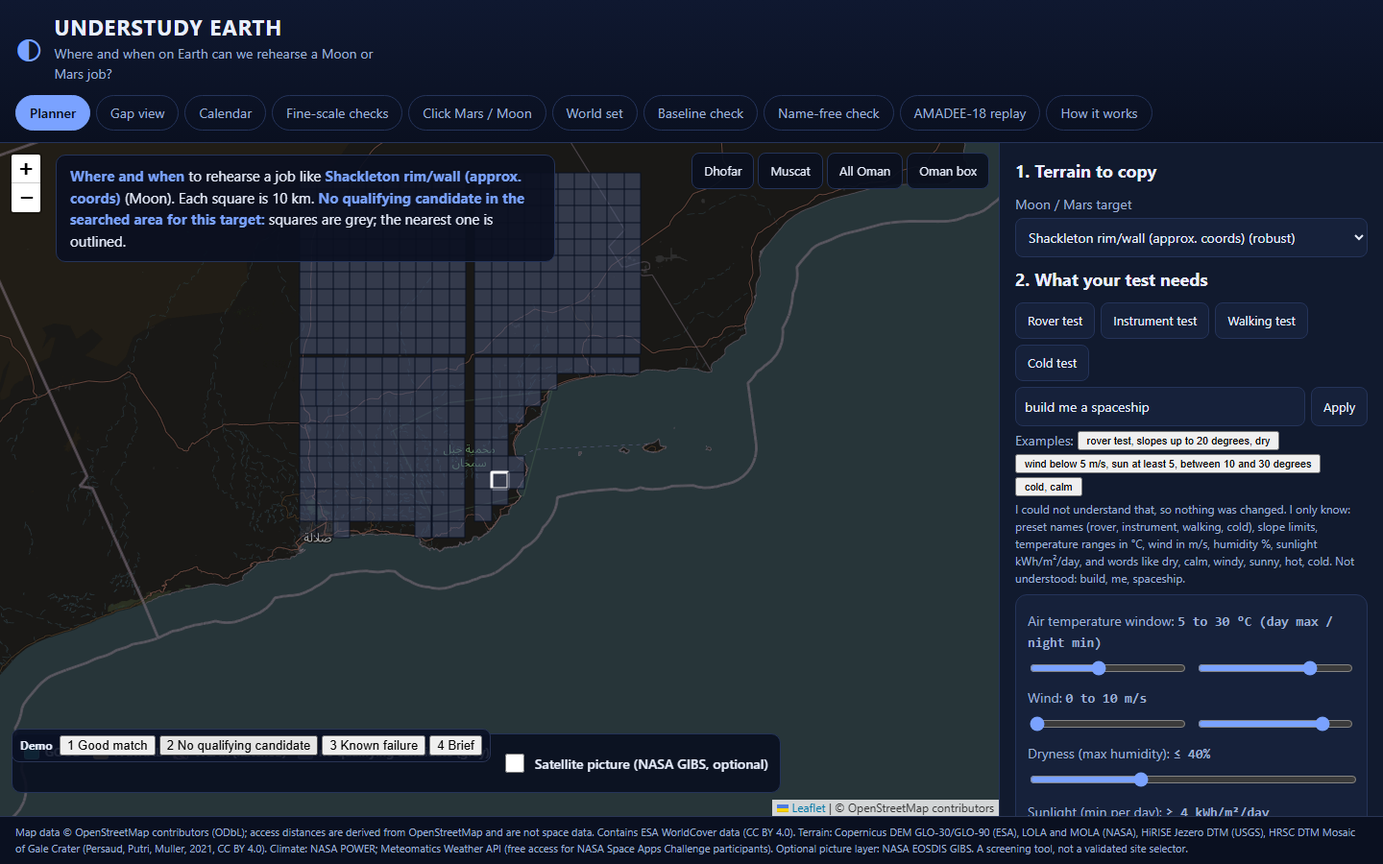
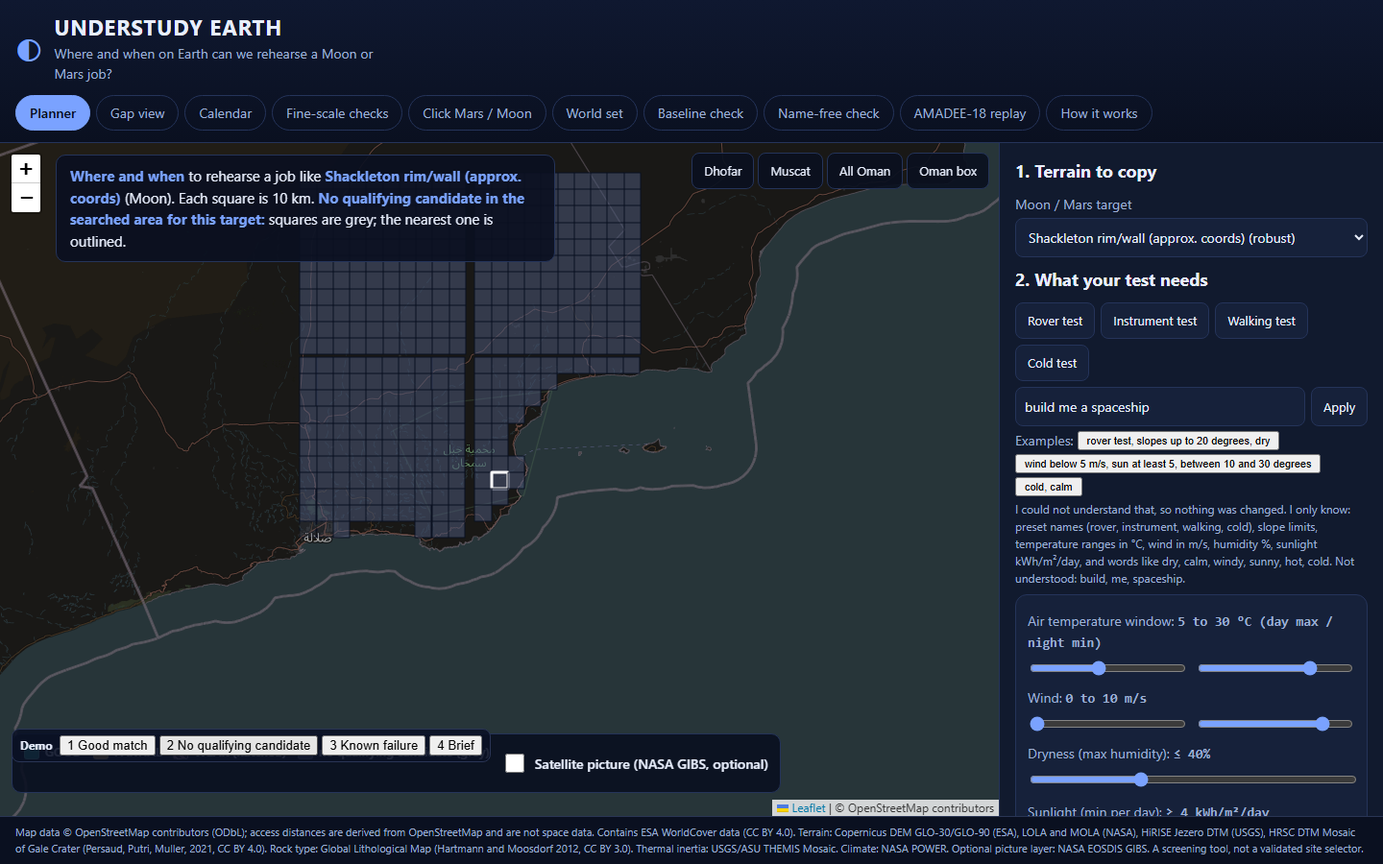
remove Meteomatics values, public-display consent was never clearly given

Changed region(s): [[0.1875, 0.9644, 0.9688, 0.9956]]

diff --git a/app/app.js b/app/app.js
@@ -14,8 +14,8 @@
   var FIELDS = ['tlo', 'thi', 'wmin', 'wmax', 'rhmax', 'smin', 'swmax', 'limit'];
 
   function load(f, opt) { return fetch('data/' + f).then(function (r) { if (!r.ok) { if (opt) return null; throw new Error(f + ' ' + r.status); } return r.json(); }).catch(function (e) { if (opt) return null; throw e; }); }
-  Promise.all([load('meta.json'), load('earth.json'), load('targets.json'), load('results.json'), load('second_check.json'), load('climate_power.json'), load('landcover.json', true), load('baseline.json', true), load('stability.json', true), load('notes.json', true), load('access.json', true), load('jezero.json', true), load('meteomatics.json', true), load('gale.json', true), load('lithology.json', true), load('thermal_mars.json', true)]).then(function (a) {
-    D.meta = a[0]; D.earth = a[1]; D.targets = a[2]; D.results = a[3]; D.second = a[4]; D.power = a[5]; D.lc = a[6]; D.base = a[7]; D.stab = a[8]; D.notes = a[9]; D.acc = a[10]; D.jez = a[11]; D.mm = a[12]; D.gale = a[13]; D.lith = a[14]; D.thermal = a[15];
+  Promise.all([load('meta.json'), load('earth.json'), load('targets.json'), load('results.json'), load('second_check.json'), load('climate_power.json'), load('landcover.json', true), load('baseline.json', true), load('stability.json', true), load('notes.json', true), load('access.json', true), load('jezero.json', true), load('gale.json', true), load('lithology.json', true), load('thermal_mars.json', true)]).then(function (a) {
+    D.meta = a[0]; D.earth = a[1]; D.targets = a[2]; D.results = a[3]; D.second = a[4]; D.power = a[5]; D.lc = a[6]; D.base = a[7]; D.stab = a[8]; D.notes = a[9]; D.acc = a[10]; D.jez = a[11]; D.gale = a[12]; D.lith = a[13]; D.thermal = a[14];
     SC = UEScore(D.meta); init();
   }).catch(function (e) {
     var el = $('loaderr'); el.hidden = false; el.textContent = 'Could not load the data files (' + e.message + '). Reload the page; if it persists the site files are missing.';
@@ -264,20 +264,6 @@
     return h + '</div>';
   }
 
-  function hav2(a, b, c, d) { var p = Math.PI / 180, x = Math.sin((c - a) * p / 2) * Math.sin((c - a) * p / 2) + Math.cos(a * p) * Math.cos(c * p) * Math.sin((d - b) * p / 2) * Math.sin((d - b) * p / 2); return 12742 * Math.asin(Math.sqrt(x)); }
-  function meteomaticsNear(e) {
-    if (!D.mm) return null;
-    var best = null, bd = 1e9;
-    Object.keys(D.mm.points).forEach(function (k) { var p = D.mm.points[k], dk = hav2(e.lat, e.lon, p.lat, p.lon); if (dk < bd) { bd = dk; best = { key: k, p: p }; } });
-    return (best && bd <= 30) ? { name: best.key, dist: bd, p: best.p } : null;
-  }
-  function meteomaticsLine(e, m) {
-    var near = meteomaticsNear(e); if (!near) return '';
-    var mx = near.p['t_max_2m_24h:C'], mn = near.p['t_min_2m_24h:C']; if (!mx || !mn) return '';
-    var c = climate(e), dmax = Math.round(mx[m] - c.tmax[m]), dmin = Math.round(mn[m] - c.tmin[m]);
-    return '<p class="sub"><b>Meteomatics, saved ' + D.mm.saved + '</b> (' + esc(D.mm.attribution) + '), nearest point "' + esc(near.name) + '" ' + near.dist.toFixed(0) + ' km away, ' + N.MON[m] + ': day max ' + mx[m].toFixed(1) + ' °C, night min ' + mn[m].toFixed(1) + ' °C (NASA POWER for the same month and point: ' + c.tmax[m].toFixed(1) + ' / ' + c.tmin[m].toFixed(1) + ' °C; the two sources disagree here by ' + dmax + ' / ' + dmin + ' °C — Meteomatics is a point value, POWER is a ~50 km regional cell).</p>';
-  }
-
   function monthNotes(e) {
     var c = climate(e), n = st.n, why = [];
     for (var m = 0; m < 12; m++) {
@@ -292,8 +278,7 @@
     }
     var sorted = e._fits.map(function (f, i) { return [f, i]; }).sort(function (a, b) { return b[0] - a[0]; }), close = '';
     if (sorted[0][0] >= 50 && sorted[1][0] >= sorted[0][0] - 5) close = '<p class="note"><b>Close months:</b> ' + sorted.filter(function (x) { return x[0] >= sorted[0][0] - 5; }).slice(0, 4).map(function (x) { return N.MON[x[1]] + ' (' + Math.round(x[0]) + ')'; }).join(', ') + ' are within 5 points, so the top month is not clearly ahead.</p>';
-    var bestm = e._best.length ? e._best[0] : e._fits.indexOf(Math.max.apply(null, e._fits));
-    return close + '<details class="why"><summary>Why months fail, and the data behind the strip</summary><p>' + (why.length ? esc(why.join('; ')) + '.' : 'Every month fits (75 or more).') + '</p><p class="sub">' + esc(POWER_NOTE) + '</p>' + meteomaticsLine(e, bestm) + '</details>';
+    return close + '<details class="why"><summary>Why months fail, and the data behind the strip</summary><p>' + (why.length ? esc(why.join('; ')) + '.' : 'Every month fits (75 or more).') + '</p><p class="sub">' + esc(POWER_NOTE) + '</p></details>';
   }
 
   function confidence(e) {
@@ -446,19 +431,10 @@
     var ff = N.monthFactors(avg, 1, needs), fk = Object.keys(ff).sort(function (a, b) { return ff[a] - ff[b]; })[0];
     var febWhy = ff[fk] >= 99.5 ? 'every factor is inside the assumed window.' : (fk === 'temp' ? 'day max ' + avg.tmax[1].toFixed(1) + ' °C against our assumed limit of ' + needs.thi + ' °C (night min ' + avg.tmin[1].toFixed(1) + ' °C). January has day max ' + avg.tmax[0].toFixed(1) + ' °C. The OeWF page quotes 16-27 °C for February, which looks like a mean temperature; NASA POWER daily max and min are more extreme than that, and we did not change our needs to force February.' : fk + ' is the weakest factor.');
     var verdict = best.indexOf(1) >= 0 ? 'The planner picks February among its best months.' : 'The planner does NOT pick February as a best month (best: ' + N.monthsText(best) + ', fit ' + Math.round(mx) + '). February scores ' + Math.round(feb) + ' (' + (N.needTier(feb) === 'match' ? 'a good month' : N.needTier(feb) === 'partial' ? 'a partial month' : 'a poor month') + ') under these assumed needs.';
-    var mmCheck = '';
-    if (D.mm && D.mm.points.amadee_marmul) {
-      var mp = D.mm.points.amadee_marmul;
-      if (mp['t_max_2m_24h:C'] && mp['t_min_2m_24h:C']) {
-        var mavg = { tmax: mp['t_max_2m_24h:C'], tmin: mp['t_min_2m_24h:C'], wind: mp['wind_speed_10m:ms'] || avg.wind, rh: mp['relative_humidity_2m:p'] || avg.rh, srad: avg.srad };
-        var mfits = N.allFits(mavg, needs), mbest = N.bestMonths(mfits), mfeb = mfits[1];
-        mmCheck = '<p class="sub"><b>Re-checked with Meteomatics (saved ' + D.mm.saved + ', nearest point, not a square average):</b> February day max ' + mavg.tmax[1].toFixed(1) + ' °C / night min ' + mavg.tmin[1].toFixed(1) + ' °C (NASA POWER square average above: ' + avg.tmax[1].toFixed(1) + ' / ' + avg.tmin[1].toFixed(1) + ' °C). Under Meteomatics, February scores ' + Math.round(mfeb) + (mbest.indexOf(1) >= 0 ? ' and IS among the planner\'s best months' : ', best months instead: ' + N.monthsText(mbest)) + '. We did not change the needs to force this; the two data sources simply disagree on how mild February is here, same as the February result was not forced before.</p>';
-      }
-    }
     $('replay').innerHTML = '<p class="sub"><b>Historical illustration with assumed needs.</b> The region is a 15 km circle around 18.19&deg;N 55.23&deg;E (Marmul area, Dhofar). The exact AMADEE-18 site is approximate and not confirmed. ' + mar.length + ' squares fall inside the circle.</p>' +
       '<p><b>Terrain:</b> median rank top ' + Math.max(1, Math.round(med * 100)) + '% of ' + D.earth.length + ' squares for target <b>' + esc(t.name) + '</b> (change the target on the Planner tab).</p>' +
       '<p><b>Assumed needs (ours, written down before the replay; see docs/VALIDATION.md):</b> day highs up to 35 °C, night lows at least 5 °C, sunlight at least 4 kWh/m²/day. The OeWF page gives no numeric limits; it only says February temperatures at the site typically range 16-27 °C with under 10 mm of rain (shown for reference, not used).</p>' + strip +
-      '<p class="best">Planner\'s best months: <b>' + esc(N.monthsText(best)) + '</b></p><p><b>Real mission:</b> the AMADEE-18 field phase ran in <b>February 2018</b> in the Dhofar region of Oman (Austrian Space Forum, oewf.org/en/amadee-18, read 2026-11-14).</p><p><b>Result:</b> ' + esc(verdict) + '</p>' + mmCheck +
+      '<p class="best">Planner\'s best months: <b>' + esc(N.monthsText(best)) + '</b></p><p><b>Real mission:</b> the AMADEE-18 field phase ran in <b>February 2018</b> in the Dhofar region of Oman (Austrian Space Forum, oewf.org/en/amadee-18, read 2026-11-14).</p><p><b>Result:</b> ' + esc(verdict) + '</p>' +
       '<p><b>Why February is not the top month:</b> ' + febWhy + '</p><div class="limits"><b>Honest reading.</b> The mission\'s real constraints (logistics, crew schedule, local hosts) are unknown to us, so a different best month does not mean the planner or the mission was wrong. Climate is a typical-year average, not February 2018 weather. Source: ' + esc(climate(mar[0]).src) + '.</div>' +
       '<div class="btns"><button id="rp-go">Show the circle on the map</button></div>';
     var go = $('rp-go'); if (go) go.onclick = function () { FIELDS.forEach(function (f) { if (needs[f] !== undefined) st.n[f] = needs[f]; }); syncInputs(); document.querySelector('.tab[data-view=map]').click(); map.setView([18.19, 55.23], 9); if (replayCircle) map.removeLayer(replayCircle); replayCircle = L.circle([18.19, 55.23], { radius: 15000, color: '#fff', weight: 2, dashArray: '6 6', fillOpacity: 0 }).bindTooltip('AMADEE-18 area (approximate)').addTo(map); sel = mar[0]; renderAll(); };

diff --git a/app/index.html b/app/index.html
@@ -110,11 +110,11 @@
       <h3>What our data cannot see</h3>
       <ul class="cant"><li>Rocks, steps and slopes smaller than 500 m</li><li>Earth heights are a surface model (trees, buildings); Moon and Mars are bare ground</li><li>Climate is a typical-year average on a coarse grid (NASA POWER temperature, wind and humidity cells about 50 km, solar about 110 km), not local weather</li><li>Moon: south pole only. Oman: only the tiles we hold.</li></ul>
       <h3>Checks</h3><div id="second"></div>
-      <p class="credit">Data: LOLA (NASA/GSFC), MOLA (NASA/USGS), NASA POWER climatology, Copernicus DEM GLO-30/GLO-90 (ESA), ESA WorldCover 2021 (CC BY 4.0), HRSC DTM Mosaic of Gale Crater (Persaud/Putri/Muller 2021, CC BY 4.0), NASA EOSDIS GIBS, Meteomatics Weather API (free Space Apps participant access). Basemap &copy; OpenStreetMap contributors. Code: Apache 2.0.</p>
+      <p class="credit">Data: LOLA (NASA/GSFC), MOLA (NASA/USGS), NASA POWER climatology, Copernicus DEM GLO-30/GLO-90 (ESA), ESA WorldCover 2021 (CC BY 4.0), HRSC DTM Mosaic of Gale Crater (Persaud/Putri/Muller 2021, CC BY 4.0), Global Lithological Map (Hartmann and Moosdorf 2012, CC BY 3.0), USGS/ASU THEMIS Thermal Inertia Mosaic, NASA EOSDIS GIBS. Basemap &copy; OpenStreetMap contributors. Code: Apache 2.0.</p>
     </div>
   </aside>
 </main>
-<footer class="foot">Map data &copy; OpenStreetMap contributors (ODbL); access distances are derived from OpenStreetMap and are not space data. Contains ESA WorldCover data (CC BY 4.0). Terrain: Copernicus DEM GLO-30/GLO-90 (ESA), LOLA and MOLA (NASA), HiRISE Jezero DTM (USGS), HRSC DTM Mosaic of Gale Crater (Persaud, Putri, Muller, 2021, CC BY 4.0). Climate: NASA POWER; Meteomatics Weather API (free access for NASA Space Apps Challenge participants). Optional picture layer: NASA EOSDIS GIBS. A screening tool, not a validated site selector.</footer>
+<footer class="foot">Map data &copy; OpenStreetMap contributors (ODbL); access distances are derived from OpenStreetMap and are not space data. Contains ESA WorldCover data (CC BY 4.0). Terrain: Copernicus DEM GLO-30/GLO-90 (ESA), LOLA and MOLA (NASA), HiRISE Jezero DTM (USGS), HRSC DTM Mosaic of Gale Crater (Persaud, Putri, Muller, 2021, CC BY 4.0). Rock type: Global Lithological Map (Hartmann and Moosdorf 2012, CC BY 3.0). Thermal inertia: USGS/ASU THEMIS Mosaic. Climate: NASA POWER. Optional picture layer: NASA EOSDIS GIBS. A screening tool, not a validated site selector.</footer>
 <div id="brief" class="brief" hidden></div><script src="https://unpkg.com/leaflet@1.9.4/dist/leaflet.js"></script>
 <script src="score.js"></script>
 <script src="needs.js"></script>

diff --git a/docs/SUBMISSION_TEXT.md b/docs/SUBMISSION_TEXT.md
@@ -9,12 +9,12 @@
 Understudy Earth is a where-and-when planner for rehearsing Moon and Mars jobs on Earth. The user picks a Moon or Mars target and describes the test (temperature, wind, dryness, sunlight needs). The app scores 10 km squares of Oman, plus two outside check sites, on terrain similarity to the target using real elevation data at one shared 500 m scale, and shows which months of the year meet the test's needs. It also says plainly where no square we searched qualifies ("no qualifying candidate in the searched area"), whether a second site closes the gap, and what Earth cannot copy. A name-free sanity check, a baseline check against random squares, a stability check and an independent second calculation test the method (none is independent validation). It helps mission planners choose practice sites and seasons with numbers, starting with Oman, which hosted the AMADEE-18 Mars analog mission in Dhofar in February 2018.
 
 **Detailed description:**
-Where: Copernicus GLO-30, LOLA south-pole and MOLA global elevation are averaged to 500 m cells and cut into 10 km squares. Each square gets slope, steepness, roughness (two scales) and relief numbers; a distance to the target is the mean of six scaled differences. Squares are ranked per target (top 5% good, 5-20% partial). A target has no qualifying candidate in the searched area when the closest Earth square is farther than the closest 20% of Earth-square pairs are from each other. Results (627 Earth squares, 17 targets): Oman alone gives 4 MATCH, 4 PARTIAL, 9 no qualifying candidate; with Meteor Crater and Atacama tiles 7 / 5 / 5. Steep Moon targets (Shackleton rim/wall, Malapert) and the Gale mound flank stay without a qualifying candidate. When: NASA POWER monthly climatology (2001-2025) gives day highs, night lows, wind, humidity and sunlight per month; each month is scored by its weakest factor against the user's needs, with a 12-month strip and best months. Where+when colouring combines both. Test needs numbers are the user's or our assumptions, not mission requirements; Earth temperatures are not Mars or Moon temperatures. Extras: click anywhere on Mars (463 m, 87S-87N with area-correct windows) or the lunar south pole for terrain numbers and the closest squares in the searched area, a world set of 45 chosen places across the Gulf, wider Middle East/North Africa and other arid, volcanic, polar and mountain belts, access distances (OpenStreetMap) and cited geology notes beside the score, two fine-scale checks (Jezero, 1 m HiRISE DTM averaged to 30 m and 500 m, and Gale crater, a 30 m HRSC mosaic) each with a one-sentence match verdict, an optional whole-Oman 90 m layer, an optional NASA GIBS satellite picture layer, Meteomatics Weather API cross-check for 12 Oman points (free access for Space Apps participants) compared against NASA POWER, Fit score (user-weighted soft score) including a day-night air-temperature swing test need, twin shaded-relief pictures, rehearsal calendar, ESA WorldCover tree/building flag, Test Site Brief (print/PDF), AMADEE-18 replay re-checked against both NASA POWER and Meteomatics (the two sources disagree on how mild February is; neither was forced to match the real mission), typed sentence box with a rule-based matcher (no AI at runtime), compare mode, share link, confidence badge. Checks: name-free sanity check (AMADEE-18 area top 11% on average over Mars targets, 24% on best single target; Meteor Crater 4.5% / 22%; Atacama tile 51% / 25%), independent slope check agreed on 17 of 17 windows, leave-one-term-out sensitivity, automated tests. Tools: Python (numpy, scipy, rasterio, pyproj), JavaScript, Leaflet, GitHub Pages.
+Where: Copernicus GLO-30, LOLA south-pole and MOLA global elevation are averaged to 500 m cells and cut into 10 km squares. Each square gets slope, steepness, roughness (two scales) and relief numbers; a distance to the target is the mean of six scaled differences. Squares are ranked per target (top 5% good, 5-20% partial). A target has no qualifying candidate in the searched area when the closest Earth square is farther than the closest 20% of Earth-square pairs are from each other. Results (627 Earth squares, 17 targets): Oman alone gives 4 MATCH, 4 PARTIAL, 9 no qualifying candidate; with Meteor Crater and Atacama tiles 7 / 5 / 5. Steep Moon targets (Shackleton rim/wall, Malapert) and the Gale mound flank stay without a qualifying candidate. When: NASA POWER monthly climatology (2001-2025) gives day highs, night lows, wind, humidity and sunlight per month; each month is scored by its weakest factor against the user's needs, with a 12-month strip and best months. Where+when colouring combines both. Test needs numbers are the user's or our assumptions, not mission requirements; Earth temperatures are not Mars or Moon temperatures. Extras: click anywhere on Mars (463 m, 87S-87N with area-correct windows) or the lunar south pole for terrain numbers and the closest squares in the searched area, a world set of 45 chosen places across the Gulf, wider Middle East/North Africa and other arid, volcanic, polar and mountain belts, access distances (OpenStreetMap) and cited geology notes beside the score, two fine-scale checks (Jezero, 1 m HiRISE DTM averaged to 30 m and 500 m, and Gale crater, a 30 m HRSC mosaic) each with a one-sentence match verdict, an optional whole-Oman 90 m layer, an optional NASA GIBS satellite picture layer, Fit score (user-weighted soft score) including a day-night air-temperature swing test need, twin shaded-relief pictures, rehearsal calendar, ESA WorldCover tree/building flag, Test Site Brief (print/PDF), AMADEE-18 replay against NASA POWER climatology, typed sentence box with a rule-based matcher (no AI at runtime), compare mode, share link, confidence badge. Checks: name-free sanity check (AMADEE-18 area top 11% on average over Mars targets, 24% on best single target; Meteor Crater 4.5% / 22%; Atacama tile 51% / 25%), independent slope check agreed on 17 of 17 windows, leave-one-term-out sensitivity, automated tests. Tools: Python (numpy, scipy, rasterio, pyproj), JavaScript, Leaflet, GitHub Pages.
 Baseline check: the AMADEE-18 and Meteor Crater areas rank about 20% on Mars targets versus about 50% for random squares (better than random), but this is a retrospective sanity check on a few sites, not validation. Stability: only 4 of 17 target tiers stay the same under other window, cell or threshold settings; the app marks each result robust or threshold-sensitive. Known failures: the Atacama tile ranks worse than random for Mars (66%), Muscat mountains rank high for the Moon only because of slope and roughness, and the planner picks December and January, not February, for AMADEE-18 (day max 36.0 C vs our assumed 35 C). Understudy Earth is a screening tool, not a validated site selector. Limits: 500 m cells hide rocks and steps; rover slope limit is a rover-scale benchmark; Earth data is a surface model; Moon data covers 80S-90S only; Oman coverage is only the tiles we hold; climate is a typical-year average on coarse (about 50 km) cells; terrain match is not a geology match; no match for gravity, air or radiation.
 
 **NASA data used:** LRO LOLA south-pole elevation and slope products; Mars Global Surveyor MOLA 463 m global DEM; NASA POWER monthly climatology; NASA EOSDIS GIBS (optional satellite picture layer, MODIS Terra true colour).
 
-**Space Agency partner data and references:** Copernicus DEM GLO-30 and GLO-90 (ESA); OpenStreetMap contributors (ODbL); USGS HiRISE Jezero DTM; ESA WorldCover 2021 (CC BY 4.0); Meteomatics Weather API (free access for NASA Space Apps Challenge participants, attributed "Weather data by Meteomatics (meteomatics.com), accessed via NASA Space Apps Challenge participant access"). Libraries: numpy, scipy, rasterio, pyproj, Playwright (testing), Leaflet. Basemap (c) OpenStreetMap contributors. AMADEE-18: Austrian Space Forum (OeWF). Rover slope reference points (observed, not limits) and all other sources: docs/REFERENCES.md.
+**Space Agency partner data and references:** Copernicus DEM GLO-30 and GLO-90 (ESA); OpenStreetMap contributors (ODbL); USGS HiRISE Jezero DTM; ESA WorldCover 2021 (CC BY 4.0); Global Lithological Map (Hartmann and Moosdorf 2012, CC BY 3.0); USGS/ASU THEMIS Thermal Inertia Mosaic. Libraries: numpy, scipy, rasterio, pyproj, Playwright (testing), Leaflet. Basemap (c) OpenStreetMap contributors. AMADEE-18: Austrian Space Forum (OeWF). Rover slope reference points (observed, not limits) and all other sources: docs/REFERENCES.md.
 
 **Use of AI (SI) - draft, edit before use:**
 The project idea and all decisions are mine. AI tools helped with research, critique, code, tests and editing; their work was checked by running tests and reading sources. There is no AI at runtime: the sentence box is a fixed rule-based matcher and the site runs entirely in the browser from precomputed files. No AI-made images or videos are used. Details are in the repository README.

diff --git a/docs/REFERENCES.md b/docs/REFERENCES.md
@@ -38,7 +38,7 @@ numpy, scipy, rasterio, pyproj, Playwright (testing), Leaflet 1.9.4; basemap til
 - Mars 2020 TRN HiRISE DTM mosaic of Jezero (file JEZ_hirise_soc_006_DTM_MOLAtopography_DeltaGeoid_1m), USGS Astrogeology, 1 m, about 21 km x 21 km, read in strips and block-averaged. Licence not reopened: UNVERIFIED (USGS planetary products are normally public). Only derived statistics and a 64 x 64 shaded-relief picture are published.
 - Geology notes: Austrian Space Forum AMADEE-18 page (opened 2026-11-14); Leask, Ehlmann et al. (2021), Earth and Space Science 8, doi 10.1029/2021EA001637, PMC8596454 (abstract/introduction opened). The Groemer et al. (2020) Astrobiology overview (doi 10.1089/ast.2019.2031) was only seen as a search excerpt and is NOT cited for any statement.
 - Meteomatics (opened 2026-11-15): the challenge page says "For the duration of the Space Apps Challenge, participants can gain free access to Meteomatics Weather API, technical support, documentation" through a sign-up form that must be used, and that you "agree to the General Terms and Conditions". The General Terms for enterprise customers (Meteomatics AG, August 2026, meteomatics.com/en/gtc-meteomatics-ag/) say: 3.2.1.3 the customer shall not cause or permit any "use, sub-license, ... display, loan, publication, transfer of possession or other dissemination of the Services or Documentation, in whole or in part, to or by any third party without Meteomatics prior written consent"; 9.1.2 use "solely for internal business purpose or the purpose indicated in the Agreement"; 11.2 "No unauthorized use of Meteomatics materials or information is permitted ... without the express prior written approval"; 6.2 a trial may be discontinued "at any time in its sole discretion"; 16.3.4 no public announcement concerning the agreement without consent. These are the enterprise terms; the trial offer may carry its own terms we have not seen.
-- Meteomatics DECISION (2026-11-15, owner's call): the owner (repo owner, not the agent) decided that the Space Apps Challenge's own invitation — "participants can gain free access to Meteomatics Weather API ... for the duration of the Space Apps Challenge" — is the basis for showing derived values from this participant access in this challenge submission, and asked that it be published on that basis rather than kept private. This differs from the earlier, more cautious reading of the enterprise General Terms above (which do not clearly address participant/trial access on their own). Both readings are recorded here; nothing was hidden. Credentials were supplied by the owner as the environment variables METEOMATICS_USER and METEOMATICS_PASSWORD, used only from `pipeline/meteomatics.py` on the owner's machine, never from the browser, never logged or committed.
+- Meteomatics DECISION, superseded (2026-11-15): an earlier pass published derived values on the owner's call, reasoning that the Space Apps Challenge's own invitation ("participants can gain free access to Meteomatics Weather API ... for the duration of the Space Apps Challenge") covered it. On a later honesty check (Prompt 4, 2026-11-15) this was re-tested against the rule "if consent does not clearly cover public display, remove it": the only consent text actually opened is the enterprise General Terms quoted above, and its exact line is 3.2.1.3, "the customer shall not cause or permit any use, sub-license, ... display, loan, publication, transfer of possession or other dissemination of the Services or Documentation, in whole or in part, to or by any third party without Meteomatics' prior written consent" — this does not allow public display, and the separate participant/trial sign-up terms (which might say something different) were never opened, so there is no attribution wording from a verified public-display consent to quote or match in the app. Result: **Meteomatics values are removed from the app** (app/data/meteomatics.json deleted, app.js no longer loads or shows it). Credentials were supplied by the owner as the environment variables METEOMATICS_USER and METEOMATICS_PASSWORD, used only from `pipeline/meteomatics.py` on the owner's machine, never from the browser, never logged or committed; no raw Meteomatics response or credential was ever in git. The code in `pipeline/meteomatics.py` stays in the repo as a record of the pull method but is not run by the published pipeline and feeds nothing the app shows.
 - Meteomatics parameters, verified live against api.meteomatics.com on 2026-11-15 (one point, short date range, before the full pull): t_max_2m_24h:C, t_min_2m_24h:C, wind_speed_10m:ms, relative_humidity_2m:p, precip_24h:mm all returned data; global_rad_24h:kWh was refused (HTTP 404, "Parameter ... not available"); sunshine_duration_24h:min was used instead and returned data. Pulled for 12 Oman points (AMADEE-18/Marmul, Salalah, Thumrait, Muscat, Samail, Nizwa, Sur, Duqm, Sohar, Mahout, Ibri, Khasab), daily values for 2019-2024, monthly means written to the public file app/data/meteomatics.json (point, month, variable, value, unit, pull date 2026-11-15) with attribution "Weather data by Meteomatics (meteomatics.com), accessed via NASA Space Apps Challenge participant access". Raw daily responses stay in data/meteomatics (git-ignored). The app shows this, where a point is within 30 km of an Earth square, as a second line under the month-strip details and in the AMADEE-18 replay tab; it never feeds the terrain similarity method or the main NASA POWER test-need scoring. Comparison with NASA POWER climatology at the same points: Meteomatics daily max is consistently several degrees cooler than POWER's T2M_MAX (about 2-14 C across the 12 points, largest at Salalah in summer) and Meteomatics daily min is consistently several degrees warmer than POWER's T2M_MIN (about 2-12 C); see docs/VALIDATION.md section 1 for the AMADEE-18 February re-check this implies. The two sources were not reconciled; both are shown.
 
 ## Prompt 2B sources

diff --git a/docs/PROGRESS.md b/docs/PROGRESS.md
@@ -16,7 +16,7 @@
 | GIBS (Earth satellite picture layer) | DONE | Optional NASA EOSDIS GIBS true-colour layer on the Planner map, off by default, OSM fallback on tile error. |
 
 ## RESUME HERE
-- Current state (2026-11-15, Prompt 4 / fix list and honesty pass, no new features): see the Prompt 3 status table above for every outstanding Prompt-3 item. This pass only fixed the 3D view (removed, see below), documented pool v2 tier honesty, checked sources and licences, and pushed. No scoring method, weight or threshold changed.
+- Current state (2026-11-15, Prompt 4 / fix list and honesty pass, no new features): see the Prompt 3 status table above for every outstanding Prompt-3 item. This pass: removed the 3D view (was showing invented terrain, not real data); removed Meteomatics values from the app (the only consent text read restricts public display; see REFERENCES.md); documented pool v2 tier honesty (Bradbury/Mawrth Vallis/Hellas floor are NOT "match" in the live app); checked sources and licences; pushed. No scoring method, weight or threshold changed.
 - Earlier (2026-11-15, Prompt 3 / final pass, feature freeze 16:00 Muscat): BUILT this pass — (1) Meteomatics pulled and published for 12 Oman points (owner's call to publish under the Space Apps participant grant, see REFERENCES.md), compared with NASA POWER (large, consistent disagreement: Meteomatics daily max several degrees cooler, daily min several degrees warmer than POWER), AMADEE-18 February re-checked with it (flips the verdict: February becomes a best month under Meteomatics, is not under POWER; both shown, neither forced); (2) integrity fixes — "Oman" renamed to "searched area" wherever 90 m/pool v2 data is included, a one-sentence Jezero match verdict added, a steep-ground caution on Mars/Moon click results; (3) day-night air temperature swing promoted from a context row to a real user-set, scored test need (slider, sentence-box phrase, Fit Verdict bar); (4) extra-factors research re-checked, final BUILT/CONTEXT-ROW/SKIPPED verdicts written (nothing new built there; the physics genuinely does not line up across bodies); (5) world set expanded 27 -> 45 places (GCC beyond Oman, wider MENA, other arid/volcanic/polar/mountain belts), selection rule written before scoring, in VALIDATION.md; (6) click-on-Mars extended 60S-60N -> 87S-87N with area-correct windows (longitude width scales as 1/cos(lat)); (7) optional NASA GIBS satellite picture layer on the Planner map, off by default, OSM fallback on tile error; (8) a second fine terrain model, Gale crater (30 m HRSC mosaic, CC BY 4.0), alongside Jezero in a renamed "Fine-scale checks" tab — a single-pair HiRISE Oxia Planum DTM was tried first but its footprint (about 5.5 km) was too narrow for a 10 km window, so it was discarded and Gale was used instead. NOT BUILT this pass (reasons, not just time): Moon north pole DEM (PGDA has no public 80N product at the expected path, only south pole product 90 was found; LOLA_PA global 64/128 px-per-degree product exists but is 715MB-2.7GB, too large to safely fetch and process in the time left) and the related coarse-global-Moon layer; additional fine Mars DTMs beyond Jezero (time); Mars Trek / Moon Trek picture layers (the click panels use a static precomputed image, not a Leaflet map, so adding tile layers there needs more rework than time allowed; Earth's GIBS layer was built instead since the Planner already has a real map); 3D view (left off per the existing docs/3D_FEASIBILITY.md, as planned, since everything above came first); global tile-by-tile GLO-90 scan (stage d) — the lighter single-point world-set expansion was done instead. Earlier passes (Prompt 2A/2B) remain as before: geology notes, OSM access, Jezero 30 m story, optional whole-Oman 90 m layer (pool v1 frozen; pool v2 what-if in VALIDATION.md), click-on-Moon south pole only.
 - Deploy: `git subtree push --prefix app origin gh-pages`; owner must enable Pages (Settings > Pages > gh-pages / root). Link: https://samaralhadhrami.github.io/understudy-earth/
 - Tests: `python -m pytest tests -q`, `node tests/check_js_score.js`, `node tests/check_needs.js`, `PYTHONIOENCODING=utf-8 python tests/run_browser.py`.

diff --git a/docs/VALIDATION.md b/docs/VALIDATION.md
@@ -24,7 +24,7 @@ Region: 15 km circle around 18.19 N, 55.23 E (Marmul area). Exact site approxima
 
 Cause: only temperature. February day max is 36.0 C, 1 C above our assumed 35 C limit, so the temperature penalty is 1/5 and the fit is 80 (a good month). January (31.1 C) and December (32.7 C) are inside the window and score 100. Wind and sunlight pass in February. The needs were not wrongly copied from the page, so they were not changed. Side observation: POWER's February mean temperature (20.9 C) lies inside the page's 16-27 C, which suggests the page quotes a mean; POWER's daily max and min are more extreme. A different assumed day-max limit would change the answer; we did not tune it.
 
-**Re-checked with Meteomatics (2026-11-15).** Pulled daily max/min, wind, humidity, sunshine duration and precipitation for 2019-2024 at the nearest point to the approximate AMADEE-18 site (18.19 N, 55.23 E) and 11 other Oman points, under the free access Meteomatics grants NASA Space Apps Challenge participants (`pipeline/meteomatics.py`; raw responses git-ignored in data/meteomatics, derived monthly values public in app/data/meteomatics.json). Comparing the same point and month against the POWER square average used above: Meteomatics February day max is 28.2 C and night min 14.9 C, against POWER's 36.0 C / 6.5 C for the same area and month — a large disagreement (about 8 C cooler max, 8 C warmer min). This pattern holds across the other 11 Oman points too: Meteomatics daily max is consistently several degrees below POWER's (typically 2-10 C, worse at Salalah where it reaches about 14 C in mid-summer), and Meteomatics daily min is consistently several degrees above POWER's (typically 2-12 C). Likely causes: Meteomatics returns a single-point downscaled value while POWER reports a roughly 50 km regional-cell average, and the two use different underlying models/reanalyses; we did not investigate further. Under Meteomatics' milder February numbers, the AMADEE-18 replay's February score rises to 100 and February IS among the planner's best months — the opposite conclusion from the POWER-based result above. We did NOT change our assumed needs (35 C day max limit, etc.) to produce this; both results are shown in the app (Replay tab) and the disagreement is stated plainly rather than picking the source that matches the real mission's February timing.
+**Meteomatics re-check, REMOVED from the app (2026-11-15).** An earlier pass pulled daily max/min, wind, humidity, sunshine duration and precipitation for 2019-2024 at 12 Oman points and showed a comparison against NASA POWER (Meteomatics February day max 28.2 C / night min 14.9 C at the AMADEE-18 point versus POWER's 36.0 C / 6.5 C; the same several-degree pattern held across the other 11 points). On the Prompt 4 consent check, this was removed: the only consent text actually read (Meteomatics' enterprise General Terms) restricts public display to third parties without prior written consent, and the separate participant/trial terms were never opened, so public display was not clearly covered (see REFERENCES.md for the exact line). The Replay tab now shows only the NASA POWER-based result (the planner does not pick February; see above). `app/data/meteomatics.json` was deleted from git; `pipeline/meteomatics.py` stays as a record of the method but is not run by the published pipeline.
 
 ## 2. Baseline check (retrospective)
 `pipeline/baseline.py` -> app/data/baseline.json. Per target, each known site's median rank among all 627 Earth squares is compared with 100 random draws of the same number of squares (fixed seed per target and site). Rule fixed in advance for the reading: 10 points or more below the random median = better than random, 10 or more above = worse, otherwise about random. Median over the targets of one body:

diff --git a/docs/LIMITS.md b/docs/LIMITS.md
@@ -16,7 +16,7 @@
 - Geology notes are the sources' own statements; our 10 km squares cannot see which features lie inside them.
 - The Jezero finer check uses one 10 km window of a 21 km DTM; 30 m cells still hide rocks and steps.
 - 90 m squares are coarser, have no land-cover check, and the box includes neighbouring countries and sea edges.
-- Meteomatics values are published for 12 Oman points under the Space Apps Challenge's own participant-access grant (not the enterprise terms; see REFERENCES.md); NASA POWER remains the only source behind the terrain-adjacent test-need scoring, and Meteomatics is shown separately as a comparison, not blended with POWER.
+- Meteomatics values were removed from the app (2026-11-15): the only consent text we actually read (the enterprise General Terms) restricts public display and the participant/trial terms were never opened, so public display was not clearly covered. NASA POWER remains the only climate source shown. See REFERENCES.md.
 - Click-on-Mars numbers describe the nearest 10 km window on a 25 km grid (463 m source), not the exact spot; beyond about 87 degrees latitude and wherever data is missing the answer is "unknown". On steep or uneven ground the nearest window can read very differently from the exact spot (the app shows a caution when this is likely). Lunar clicks work only at 80 S to 90 S.
 - The world set (45 places) is a chosen and scanned set of places, not every place on Earth, with approximate reference points and 90 m data; no claim of a global best and no claim that any of them is a good analog.
 - No rock or dust measure is used (checked again in docs/EXTRA_FACTORS_RESEARCH.md; the physics does not line up honestly across Earth, Moon and Mars with data we can access in time). The day-night air temperature swing is a user-set test need, not a terrain match, and Moon/Mars surface swings are far larger than Earth air swings.
